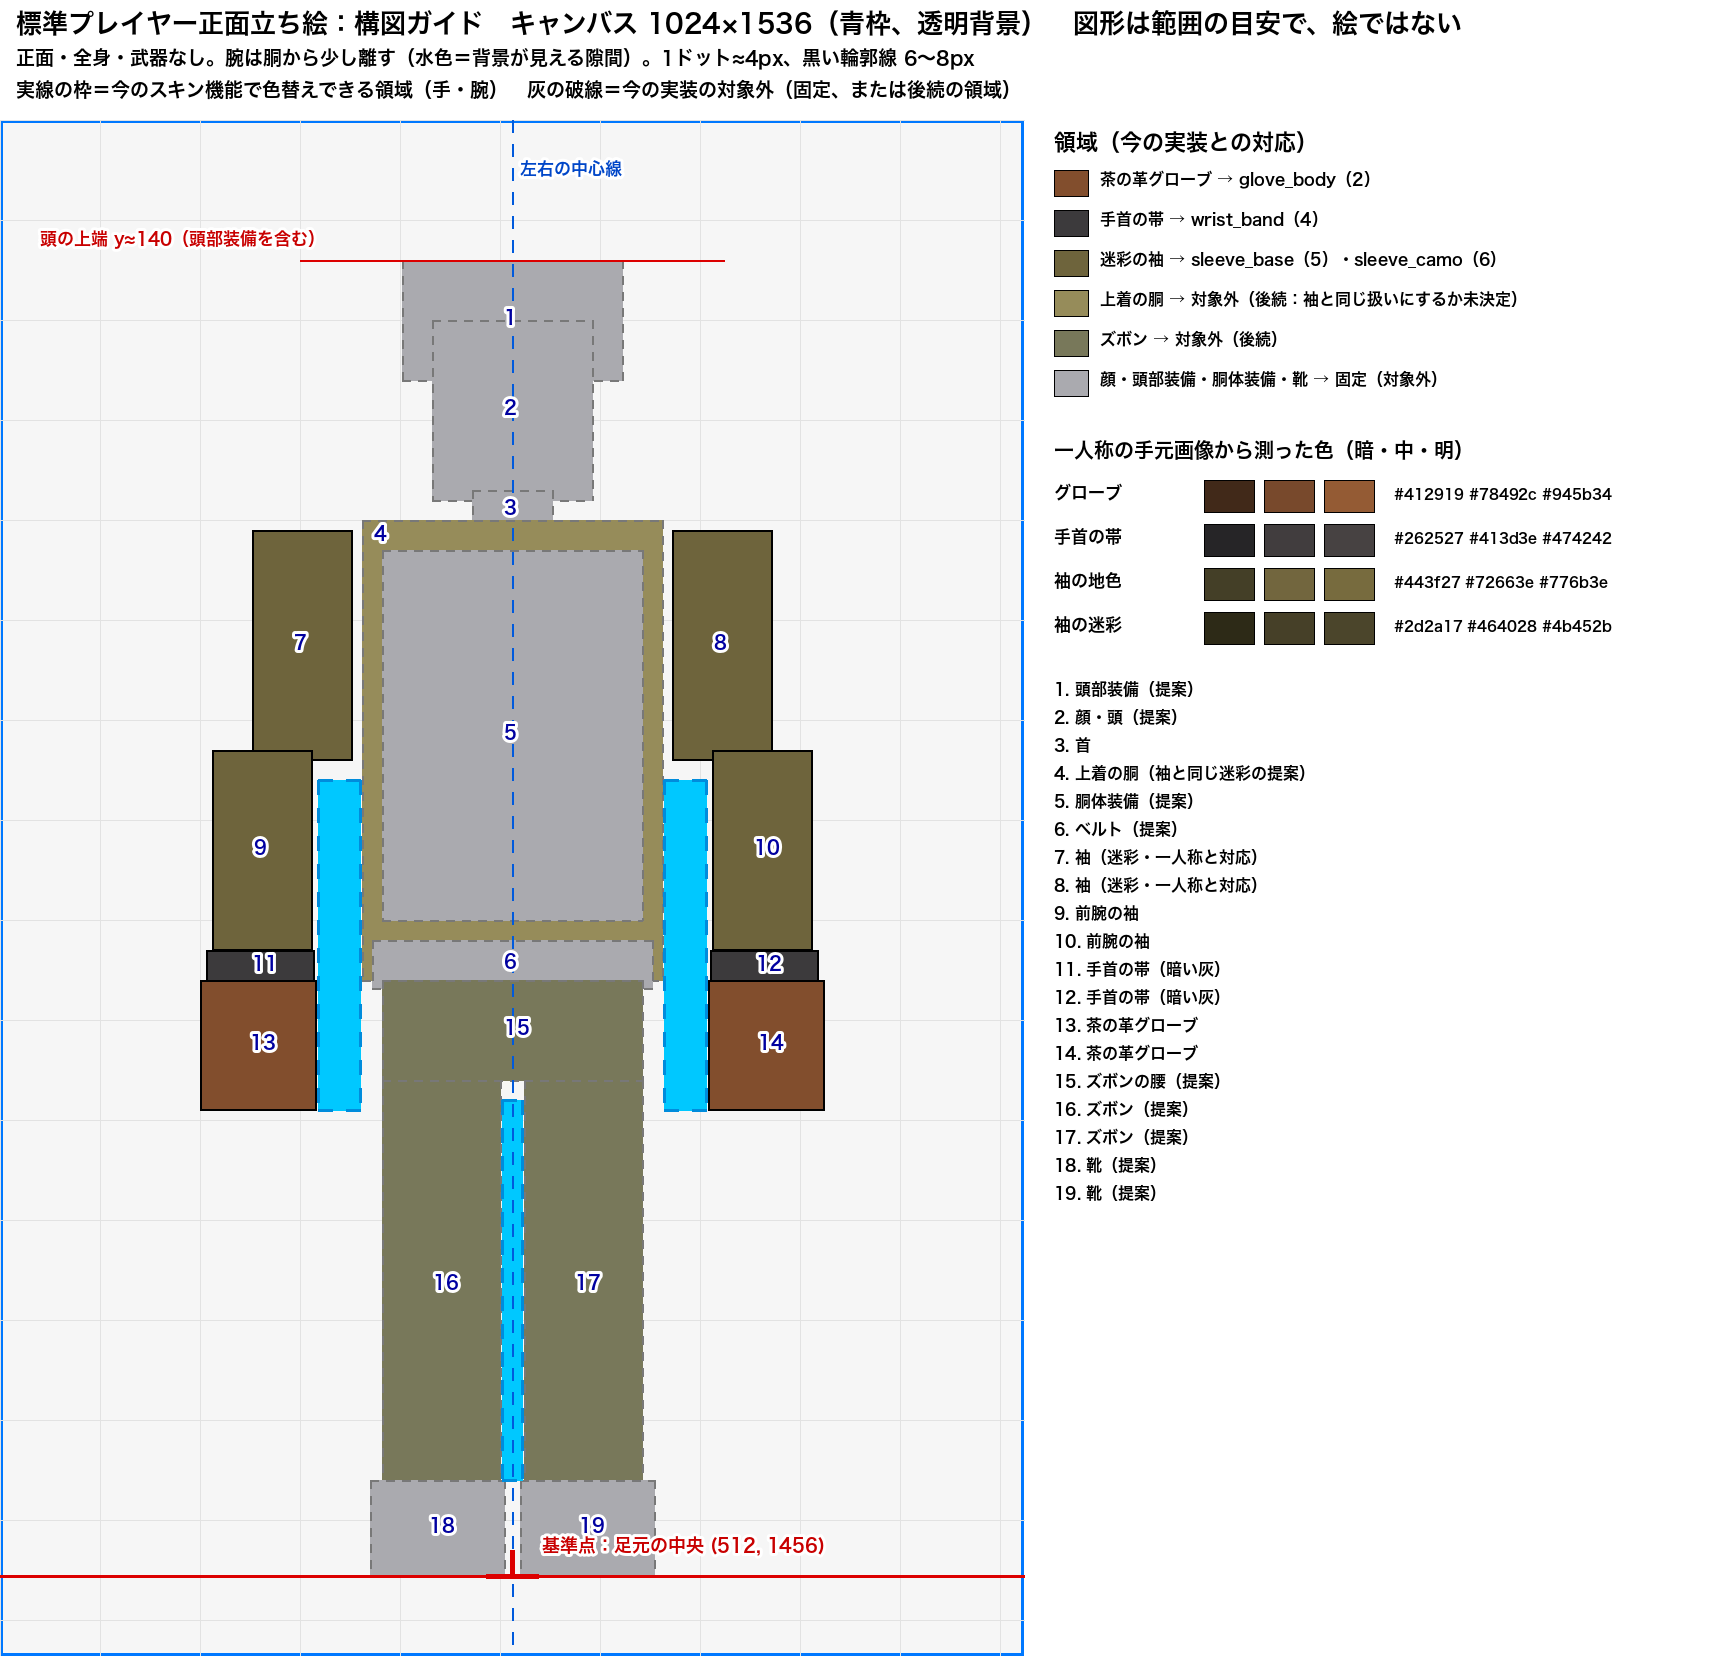
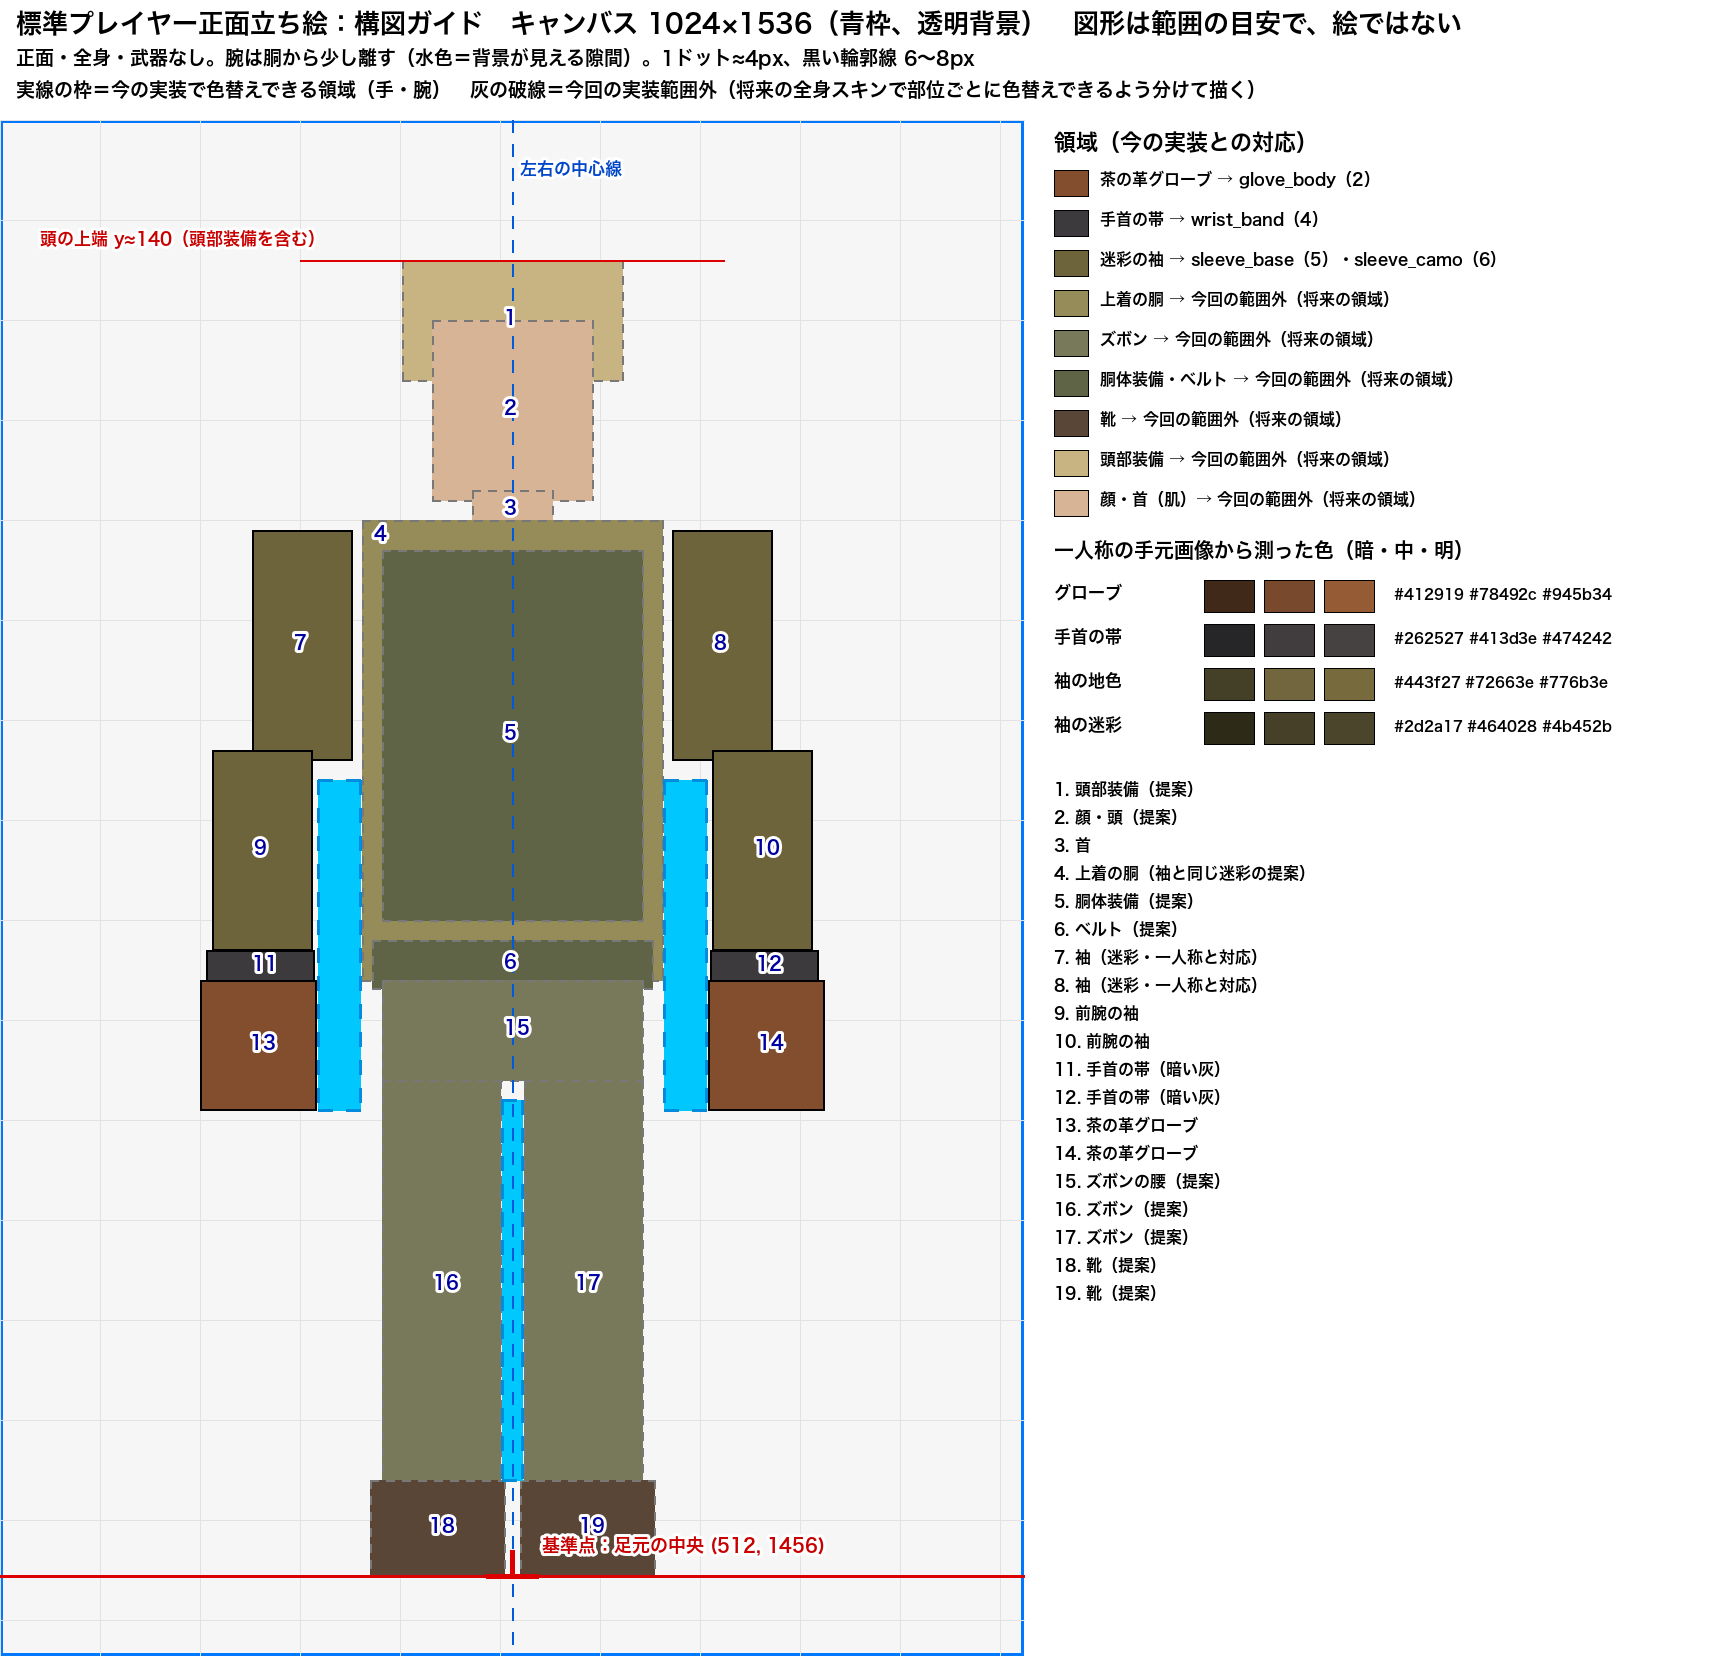
Equipment-screen art briefs: player save path, full-body skin regions kept open (current scope only)_20261021_1617

diff --git a/Tools/pixelart/make_equipment_guides.py b/Tools/pixelart/make_equipment_guides.py
@@ -80,12 +80,12 @@ SPEC = {
         "view": "front view, full body, standing, arms held slightly away from the body, no weapon",
         # areas: name, box, layer, region (skin region of the current implementation, or a future / fixed one), label
         "parts": [
-            ["helmet", [402, 140, 622, 260], "head_gear", "fixed", "頭部装備（提案）"],
-            ["head", [432, 200, 592, 380], "head", "fixed", "顔・頭（提案）"],
-            ["neck", [472, 370, 552, 410], "head", "fixed", "首"],
-            ["torso_shirt", [362, 400, 662, 860], "top", "future:uniform_camo", "上着の胴（袖と同じ迷彩の提案）"],
-            ["vest", [382, 430, 642, 800], "vest", "fixed", "胴体装備（提案）"],
-            ["belt", [372, 820, 652, 868], "vest", "fixed", "ベルト（提案）"],
+            ["helmet", [402, 140, 622, 260], "head_gear", "future:head_gear", "頭部装備（提案）"],
+            ["head", [432, 200, 592, 380], "head", "future:skin", "顔・頭（提案）"],
+            ["neck", [472, 370, 552, 410], "head", "future:skin", "首"],
+            ["torso_shirt", [362, 400, 662, 860], "top", "future:uniform", "上着の胴（袖と同じ迷彩の提案）"],
+            ["vest", [382, 430, 642, 800], "vest", "future:vest", "胴体装備（提案）"],
+            ["belt", [372, 820, 652, 868], "vest", "future:vest", "ベルト（提案）"],
             ["sleeve_left_upper", [252, 410, 352, 640], "arms", "sleeve_base+sleeve_camo", "袖（迷彩・一人称と対応）"],
             ["sleeve_right_upper", [672, 410, 772, 640], "arms", "sleeve_base+sleeve_camo", "袖（迷彩・一人称と対応）"],
             ["sleeve_left_lower", [212, 630, 312, 830], "arms", "sleeve_base+sleeve_camo", "前腕の袖"],
@@ -97,8 +97,8 @@ SPEC = {
             ["pants_hip", [382, 860, 642, 960], "legs", "future:pants", "ズボンの腰（提案）"],
             ["pants_left", [382, 960, 500, 1370], "legs", "future:pants", "ズボン（提案）"],
             ["pants_right", [524, 960, 642, 1370], "legs", "future:pants", "ズボン（提案）"],
-            ["boot_left", [370, 1360, 504, 1456], "feet", "fixed", "靴（提案）"],
-            ["boot_right", [520, 1360, 654, 1456], "feet", "fixed", "靴（提案）"],
+            ["boot_left", [370, 1360, 504, 1456], "feet", "future:boots", "靴（提案）"],
+            ["boot_right", [520, 1360, 654, 1456], "feet", "future:boots", "靴（提案）"],
         ],
         "gaps": [
             ["gap_left", [318, 660, 360, 990], "腕と胴の間：背景が見える隙間（目安24px以上）"],
@@ -246,7 +246,8 @@ def player_guide(out, pal):
         return [box[0], box[1] + oy, box[2], box[3] + oy]
 
     region_col = {"glove_body": (130, 78, 45), "wrist_band": (60, 58, 60), "sleeve_base+sleeve_camo": (110, 100, 60),
-                  "future:uniform_camo": (150, 140, 90), "future:pants": (120, 120, 90), "fixed": (170, 170, 175)}
+                  "future:uniform": (150, 140, 90), "future:pants": (120, 120, 90), "future:vest": (95, 100, 70),
+                  "future:boots": (90, 70, 55), "future:head_gear": (200, 180, 130), "future:skin": (215, 180, 150)}
     for name, box, layer, region, text in p["parts"]:
         c = region_col[region]
         now = region in ("glove_body", "wrist_band", "sleeve_base+sleeve_camo")
@@ -270,19 +271,20 @@ def player_guide(out, pal):
 
     label(dr, (16, 10), f"標準プレイヤー正面立ち絵：構図ガイド　キャンバス {W}×{H}（青枠、透明背景）　図形は範囲の目安で、絵ではない", 26)
     label(dr, (16, 48), f"正面・全身・武器なし。腕は胴から少し離す（水色＝背景が見える隙間）。1ドット≈{p['dotPx']}px、黒い輪郭線 {p['outlinePx'][0]}〜{p['outlinePx'][1]}px", 19)
-    label(dr, (16, 80), "実線の枠＝今のスキン機能で色替えできる領域（手・腕）　灰の破線＝今の実装の対象外（固定、または後続の領域）", 19)
+    label(dr, (16, 80), "実線の枠＝今の実装で色替えできる領域（手・腕）　灰の破線＝今回の実装範囲外（将来の全身スキンで部位ごとに色替えできるよう分けて描く）", 19)
 
     sx = W + 30
     label(dr, (sx, oy + 10), "領域（今の実装との対応）", 22)
     rows = [("glove_body", "茶の革グローブ → glove_body（2）"), ("wrist_band", "手首の帯 → wrist_band（4）"),
             ("sleeve_base+sleeve_camo", "迷彩の袖 → sleeve_base（5）・sleeve_camo（6）"),
-            ("future:uniform_camo", "上着の胴 → 対象外（後続：袖と同じ扱いにするか未決定）"),
-            ("future:pants", "ズボン → 対象外（後続）"), ("fixed", "顔・頭部装備・胴体装備・靴 → 固定（対象外）")]
+            ("future:uniform", "上着の胴 → 今回の範囲外（将来の領域）"), ("future:pants", "ズボン → 今回の範囲外（将来の領域）"),
+            ("future:vest", "胴体装備・ベルト → 今回の範囲外（将来の領域）"), ("future:boots", "靴 → 今回の範囲外（将来の領域）"),
+            ("future:head_gear", "頭部装備 → 今回の範囲外（将来の領域）"), ("future:skin", "顔・首（肌）→ 今回の範囲外（将来の領域）")]
     for j, (r, t) in enumerate(rows):
         y = oy + 50 + j * 40
         dr.rectangle([sx, y, sx + 34, y + 26], fill=region_col[r] + (255,), outline=(0, 0, 0, 255))
         label(dr, (sx + 46, y), t, 16)
-    y = oy + 320
+    y = oy + 420
     label(dr, (sx, y), "一人称の手元画像から測った色（暗・中・明）", 20)
     for j, (name, t) in enumerate([("glove_body", "グローブ"), ("wrist_band", "手首の帯"), ("sleeve_base", "袖の地色"), ("sleeve_camo", "袖の迷彩")]):
         yy = y + 40 + j * 44

diff --git a/docs/review/equipment-art/layer_design.md b/docs/review/equipment-art/layer_design.md
@@ -69,8 +69,19 @@
 | `glove_reinforcement`（3） | グローブの補強（あれば） | 領域は既存。今の画像には該当部分なし |
 | `wrist_band`（4） | 手首の帯 | 領域は既存（今のテスト用スキンは帯を変えない） |
 | `sleeve_base`（5）・`sleeve_camo`（6） | 袖の地色・迷彩 | 今のプレイヤースキンがそのまま効く |
-| 上着の胴・ズボン | 迷彩の服 | **今の実装の対象外**（袖と同じ扱いにするか、別の領域にするかは未決定） |
-| 顔・頭部装備・胴体装備・靴 | — | **固定**（色替えしない。対象外） |
+| 上着の胴 | 迷彩の上着 | 今回の実装範囲外（将来の領域。袖と同じ領域にするか別にするかは未決定） |
+| ズボン | 迷彩のズボン・膝当て | 今回の実装範囲外（将来の領域） |
+| 胴体装備・ベルト | プレートキャリア・ポーチ・ベルト | 今回の実装範囲外（将来の領域） |
+| 靴 | ブーツ | 今回の実装範囲外（将来の領域） |
+| 頭部装備 | ヘルメット・ゴーグル | 今回の実装範囲外（将来の領域） |
+| 顔・首（肌） | 肌・ネックゲイター | 今回の実装範囲外（将来の領域） |
+
+「今回の実装範囲外」は、今のスキン実装（手・腕と武器の外装だけ）に含めていないという意味で、**将来の全身スキンを制限する仕様ではない**。全身の各部位を別レイヤー・別の色替え領域にできるよう、次を守って制作する。
+
+- 部位ごとに別レイヤーで描けるよう、部位の境界を輪郭線ではっきり分ける（服の重なり・装備の下は段階2で描き足す）。
+- 部位ごとに、色の系統を分ける（同じオリーブでも上着・ズボン・胴体装備が隣り合う所は輪郭線で区切る）。
+- 迷彩は地色と柄の2段で描き、袖と同じく地色・柄を別の領域にできるようにする。
+- 線の黒は全部位とも色替えしない（一人称と同じ規則）。
 
 一人称との対応：グローブ・手首の帯・袖は、腰だめ・ADS・ナイフの一人称素材と同じ色・同じ領域番号。同じ `PlayerSkin` を全身図にも当てる。
 
@@ -95,7 +106,7 @@
 | 色替えの計算（`SkinCatalog.FillColours`）・選択と保存（`SkinSelection`）・IDの対応 | UI上での色替え：今のシェーダーは `SpriteRenderer` 用。uGUIの `Image` で使うには、UI用のシェーダー（マスク・クリッピング対応）か、装備画面専用のカメラで `SpriteRenderer` を描く方式が必要 |
 | `weapon_body`・グローブ・帯・袖の色（既存の領域番号） | 複数レイヤーの重ね合わせと、レイヤーごとの領域マップ（今は1画像に1枚） |
 | | 装備ID・装着データと、交換／追加レイヤーの切り替え（拡張装備の機能は未実装） |
-| | 全身の色替え領域の追加（上着の胴・ズボンなど）。今の色の表は8枠で空きは1つ（番号7）なので、表を広げる |
+| | 全身の色替え領域の追加（上着の胴・ズボン・胴体装備・頭部装備・靴・肌）。シェーダーの色の表は8枠（番号0〜7）で、使っていないのは番号7の1枠だけなので、表を広げる |
 | | 形が変わるスキン（交換画像）の仕組み |
 | | 全体図・立ち絵の取り込み定義（一人称の `WeaponArtDefinition` に相当するもの） |
 

diff --git a/docs/review/equipment-art/player_front_request.md b/docs/review/equipment-art/player_front_request.md
@@ -6,7 +6,9 @@
 
 ## 未決定のデザインと推奨案（提案・未承認）
 
-手・腕以外のデザインは決まっていない。以下は**依頼のための推奨案を1案にまとめたもので、承認済みのデザインではない**（GAME_SPEC・DECISIONSには登録しない）。段階1の画像を見て、ユーザーが採否を決める。
+手・腕以外のデザインは決まっていない。また、今のスキン実装で色替えできるのは手・腕だけだが、これは今回の実装範囲で、**将来の全身スキンを制限するものではない**。上着・ズボン・胴体装備・頭部装備・靴・肌は、部位ごとに分けて色替えできるよう描いてもらう（`layer_design.md` 3章）。
+
+以下は**依頼のための推奨案を1案にまとめたもので、承認済みのデザインではない**（GAME_SPEC・DECISIONSには登録しない）。段階1の画像を見て、ユーザーが採否を決める。
 
 | 部位 | 決まっていること | 推奨案（提案） | 理由 |
 | --- | --- | --- | --- |
@@ -45,6 +47,8 @@
 - 腕は胴体から少し離して下げる（腕と胴の間に背景が見える隙間を、手首の高さまで24ピクセル以上）。
   手は太ももの横、手のひらを内側へ向けて軽く握る。手首の帯は y≒830〜860、手は y≒860〜990。
 - 両足は肩幅より少し狭く開き、脚の間にも隙間を空ける。
+- 部位（顔・頭部装備・上着・胴体装備・ベルト・袖・手首の帯・グローブ・ズボン・靴）の境目は、黒い輪郭線ではっきり分ける。
+  後で部位ごとに別の色へ変えられるよう、隣り合う部位を同じ色の塊でつなげない。迷彩は地色と柄の2段で描く。
 
 服装（提案として、この案で描いてください）：
 - 上着：袖と同じオリーブ迷彩の長袖。
